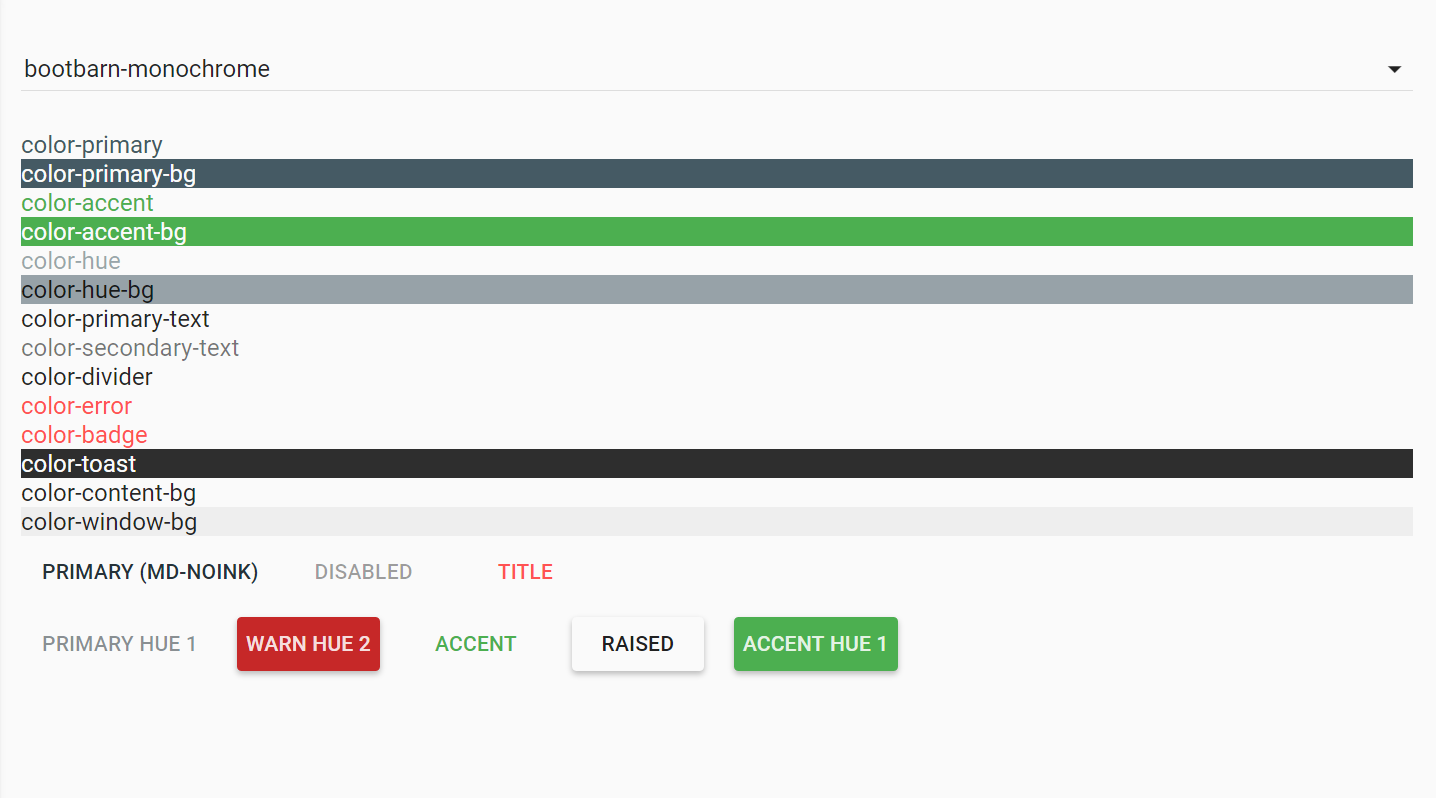
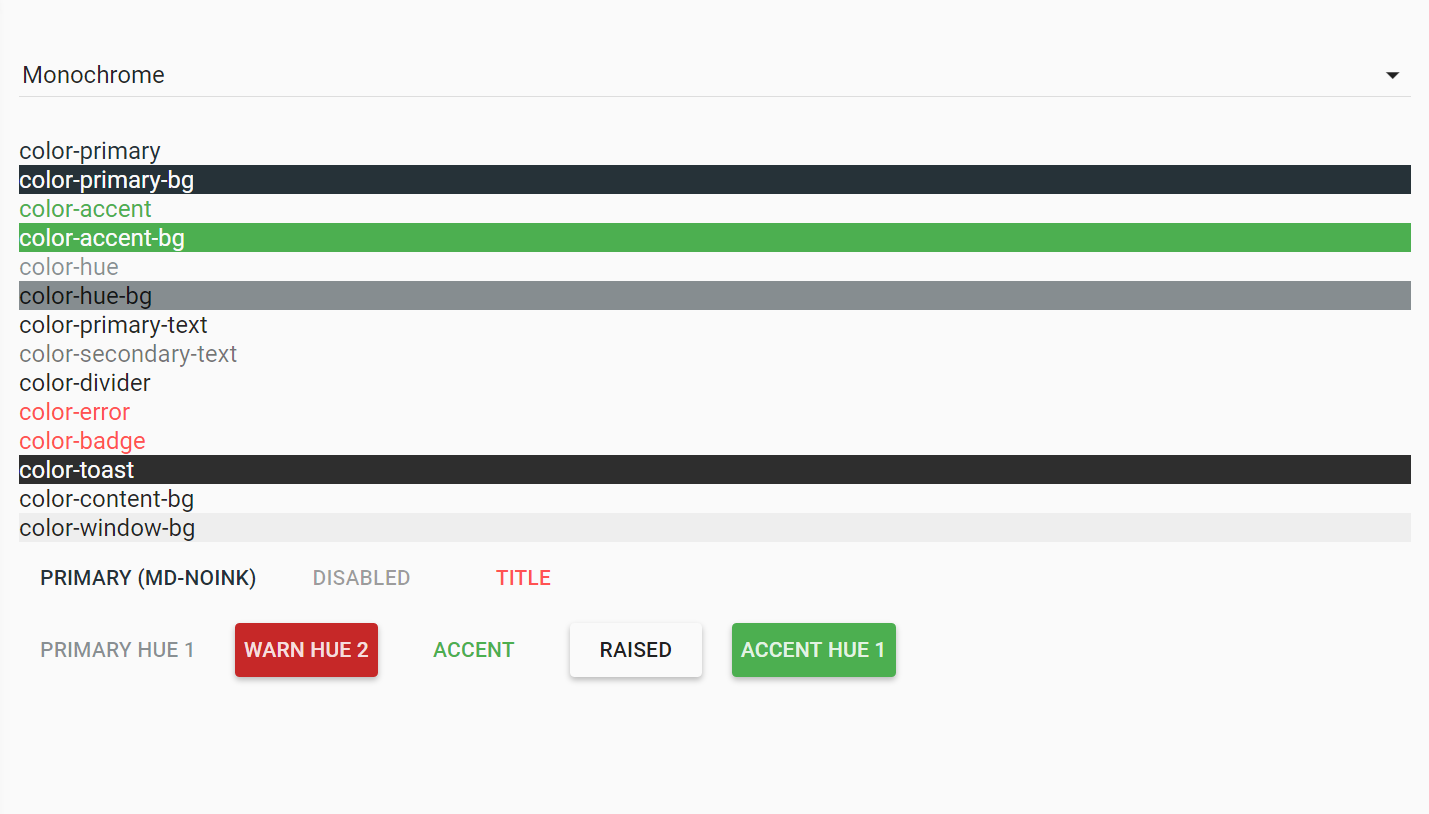
add images for UserGuide.md

diff --git a/src/styles/colors_bootbarn.less b/src/styles/colors_bootbarn.less
@@ -66,4 +66,4 @@
 
 .generate-theme(bootbarn-warm, @color-bootbarn-warm-theme);
 .generate-theme(bootbarn-cool, @color-bootbarn-cool-theme);
-.generate-theme(bootbarn-monochrome, @color-bootbarn-cool-theme);
+.generate-theme(bootbarn-monochrome, @color-bootbarn-monochrome-theme);
